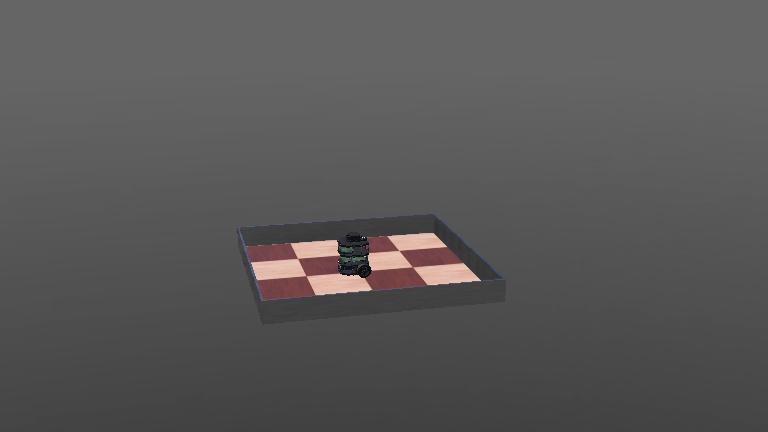
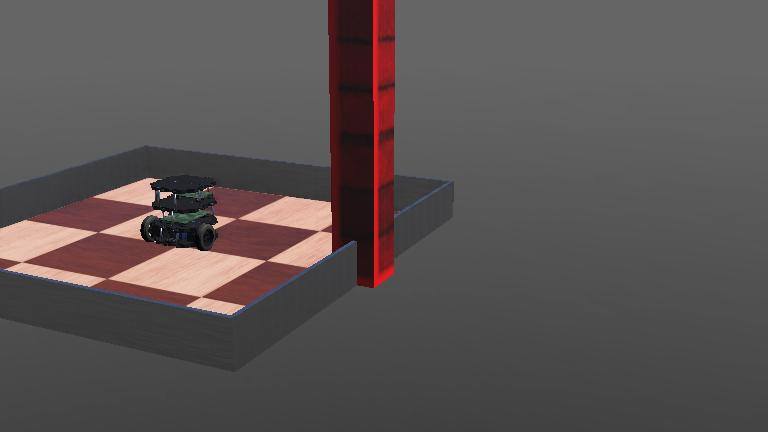
Added proper detection so when red is detected it outputs by using masks

Changed region(s): [[0.0, 0.0, 0.6562, 0.7523]]

diff --git a/webots_project/controllers/main_controller/detection.py b/webots_project/controllers/main_controller/detection.py
@@ -26,11 +26,23 @@ class Detection:
         
        # Convert BGRA → BGR for OpenCV as OPENCV doesn't need the alpha(transparency)
        frame = cv2.cvtColor(image_array, cv2.COLOR_BGRA2BGR)
-        
-       # Opens window to show image
+       hsv = cv2.cvtColor(frame, cv2.COLOR_BGR2HSV)
+       lower_warm1 = np.array([0, 160, 120])
+       upper_warm1 = np.array([20, 255, 255])
+       lower_warm2 = np.array([170, 120, 70])
+       upper_warm2 = np.array([180, 255, 255])
+       mask_warm = cv2.inRange(hsv, lower_warm1, upper_warm1) | cv2.inRange(hsv, lower_warm2, upper_warm2)
+       contours, _ = cv2.findContours(mask_warm, cv2.RETR_EXTERNAL, cv2.CHAIN_APPROX_SIMPLE)
+       red_detected = False
+       if len(contours) > 0:
+        c = max(contours, key=cv2.contourArea)
+        if cv2.contourArea(c) > 200: 
+            red_detected = True
+        #robot_node = self.robot.getSelf()
+        print("Human Found")
        cv2.imshow("TurtleBot RGB Camera", frame)
        cv2.waitKey(1)
-       
-       # Placeholder: no detection logic yet
+       cv2.imshow("Warm Colors", mask_warm)  # show color mask
+       cv2.waitKey(1) 
        return []
     
